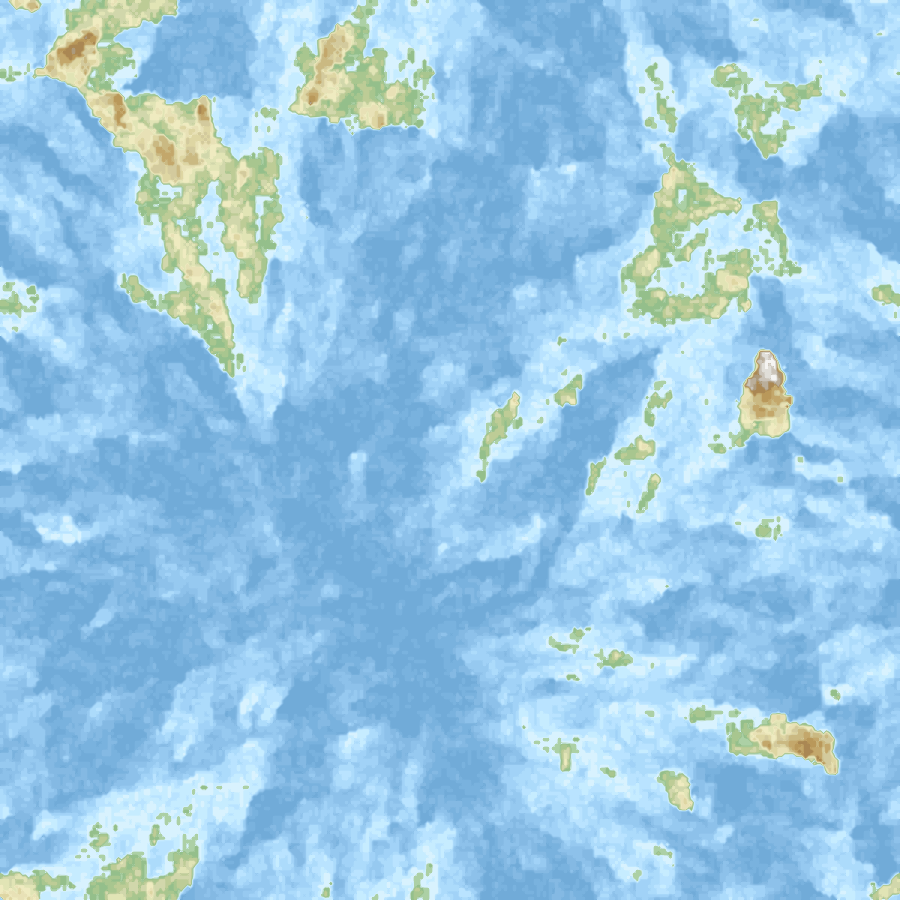
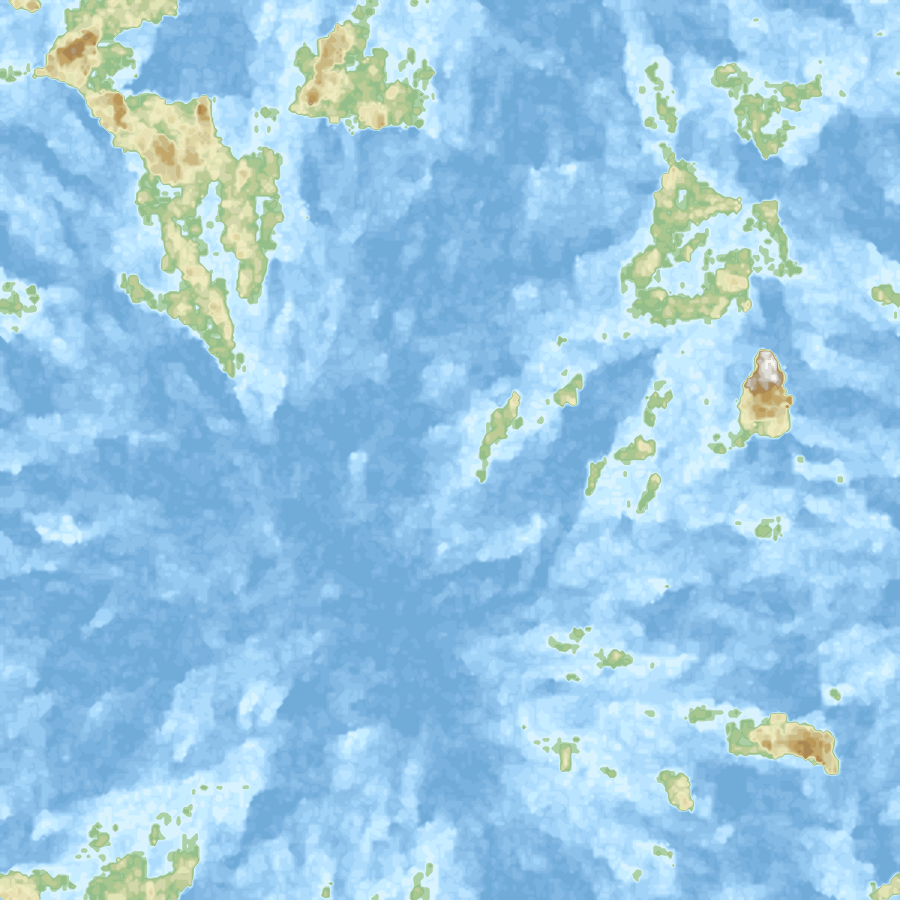
Make isocurve rendering adjustable; bump default linewidth to 1.0
render_surface gains isocurve_linewidth, isocurve_color, and
isocurve_alpha. Color turns out to matter far more than width: each
level defaults to rgb_palette[level], so a line matches its own
surrounding fill almost exactly and stays understated regardless of
thickness. Default linewidth moves from 0.5 to 1.0 -- coastlines and
sea-level banding read as crisp lines rather than aliased pixels at
typical render sizes.

docs/map.png regenerated with the new default via cli.generate_map,
same seed and parameters as before.

diff --git a/brownian_map/render.py b/brownian_map/render.py
@@ -20,6 +20,9 @@ def render_surface(
     pixels_per_cell: float = 3.0,
     dpi: int = 100,
     mark_river_starts: bool = True,
+    isocurve_linewidth: float = 1.0,
+    isocurve_color=None,
+    isocurve_alpha: float = 1.0,
 ) -> Figure:
     """Render a normalized surface through `rgb_palette`, optionally
     overlaying iso-elevation contours and/or traced rivers.
@@ -32,6 +35,34 @@ def render_surface(
     `mark_river_starts` draws a magenta dot at each river's source — useful
     while testing tracing behaviour, easy to turn off (`mark_river_starts=False`)
     once it's no longer needed.
+
+    Three knobs control how the traced isocurves look. `isocurve_linewidth`
+    defaults to `1.0` -- bold enough to keep coastlines and sea-level
+    banding crisp rather than aliased/"pixelish" at typical render sizes,
+    tested against 0.5 (too thin, edges look pixelated) and higher values
+    up to 5.0 (barely different at the default colour, see below). But
+    *colour* is the knob that actually matters most: at the default
+    colour, every level is `rgb_palette[level]`, so each line matches its
+    own surrounding fill almost exactly and stays understated regardless
+    of width.
+
+    - `isocurve_color` (default `None`, meaning "match the palette",
+      today's only prior behaviour): set an explicit colour (e.g.
+      `"black"`) to make lines visible against their own fill instead of
+      blending into it.
+    - `isocurve_alpha` (default `1.0`): a contrasting colour at full
+      opacity is not what you want -- `compute_isocurves` traces *every*
+      level, sea-depth bins included, and a rough surface's sea levels
+      alone produce enough overlapping lines that full-opacity black turns
+      the sea into total noise. Something in the `~0.15-0.3` range lets
+      individual strokes stay faint while dense overlap between many
+      overlapping sea-level lines still builds up into a real woven
+      texture -- the closer overlapping strokes are to how a hand-drawn
+      contour map actually accumulates texture, the more it reads as
+      texture and not noise.
+    - `isocurve_linewidth` (default `1.0`) still matters, just less than
+      colour -- once lines are visible at all, this is the finer control
+      over how bold each individual stroke reads.
     """
     dim = normalized_surface.shape[0]
     size_inches = dim * pixels_per_cell / dpi
@@ -47,9 +78,12 @@ def render_surface(
 
     if isocurves is not None:
         for level, contours in enumerate(isocurves):
-            color = rgb_palette[min(level, len(rgb_palette) - 1)]
+            color = isocurve_color if isocurve_color is not None else rgb_palette[min(level, len(rgb_palette) - 1)]
             for contour in contours:
-                ax.plot(contour[:, 1], contour[:, 0], color=color, linewidth=0.5)
+                ax.plot(
+                    contour[:, 1], contour[:, 0],
+                    color=color, linewidth=isocurve_linewidth, alpha=isocurve_alpha,
+                )
 
     if rivers is not None:
         river_color = rgb_palette[0]  # deepest sea entry, per palette.py's deep-sea-first ordering
